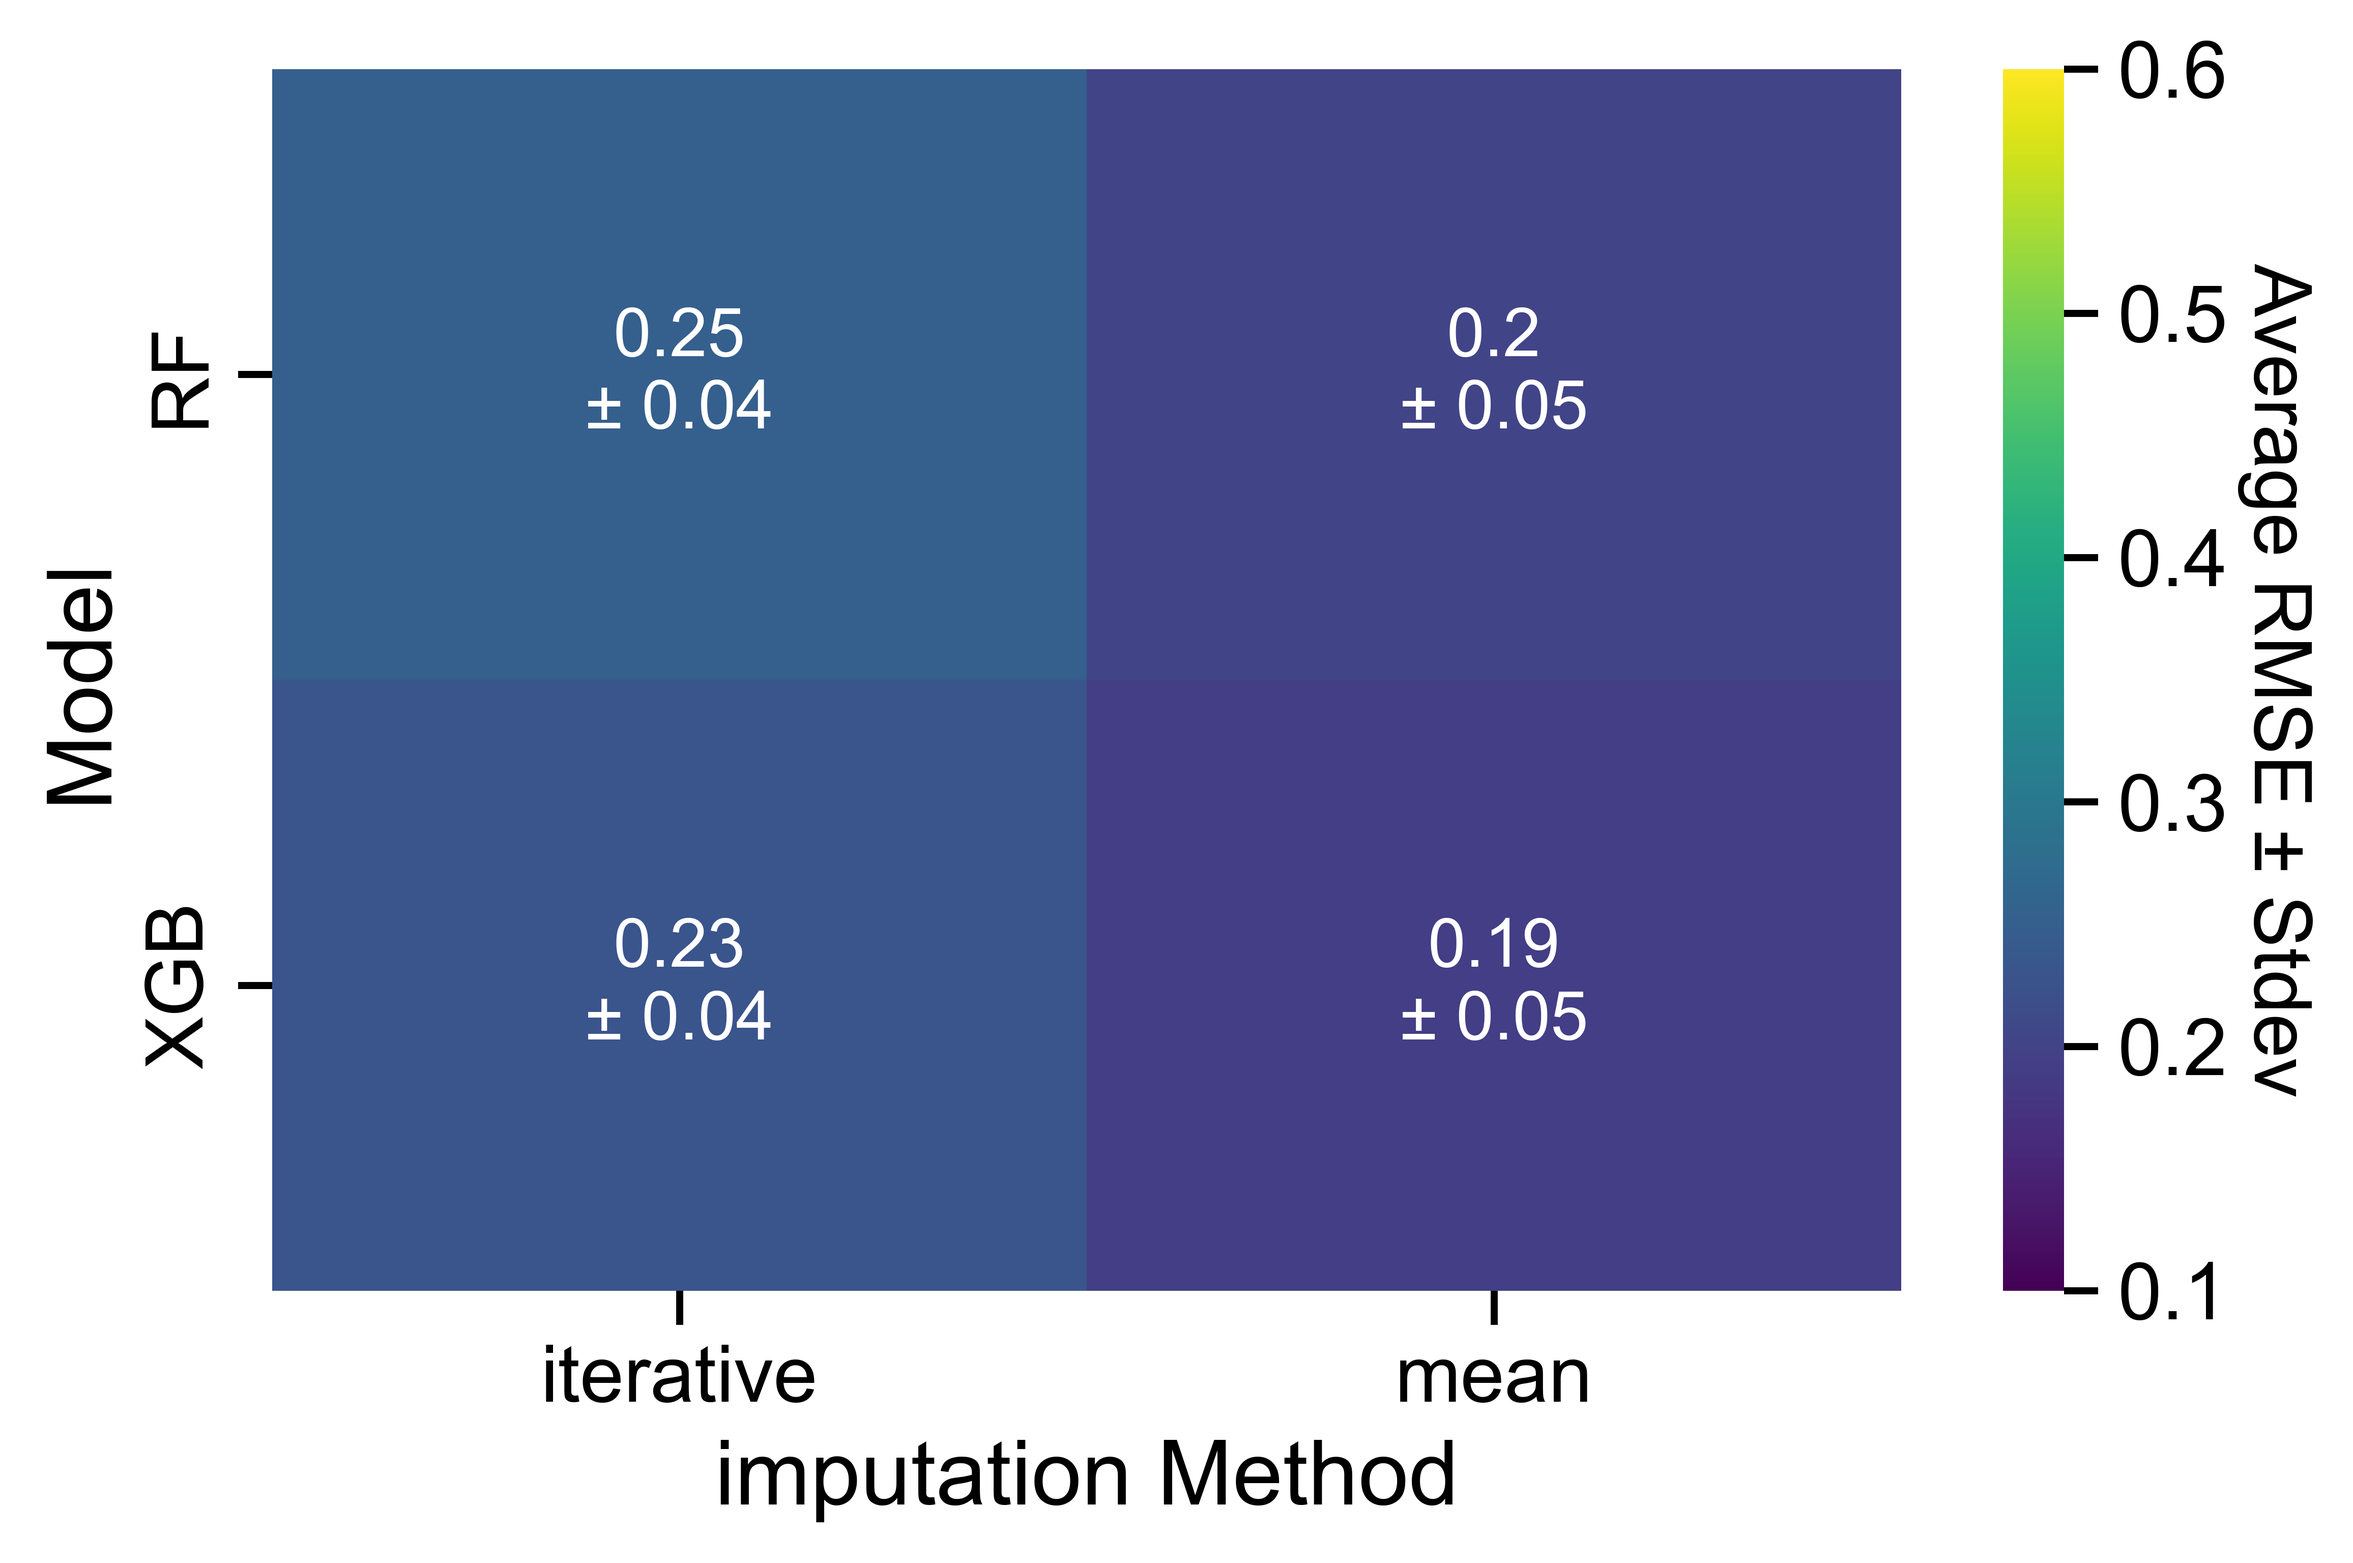
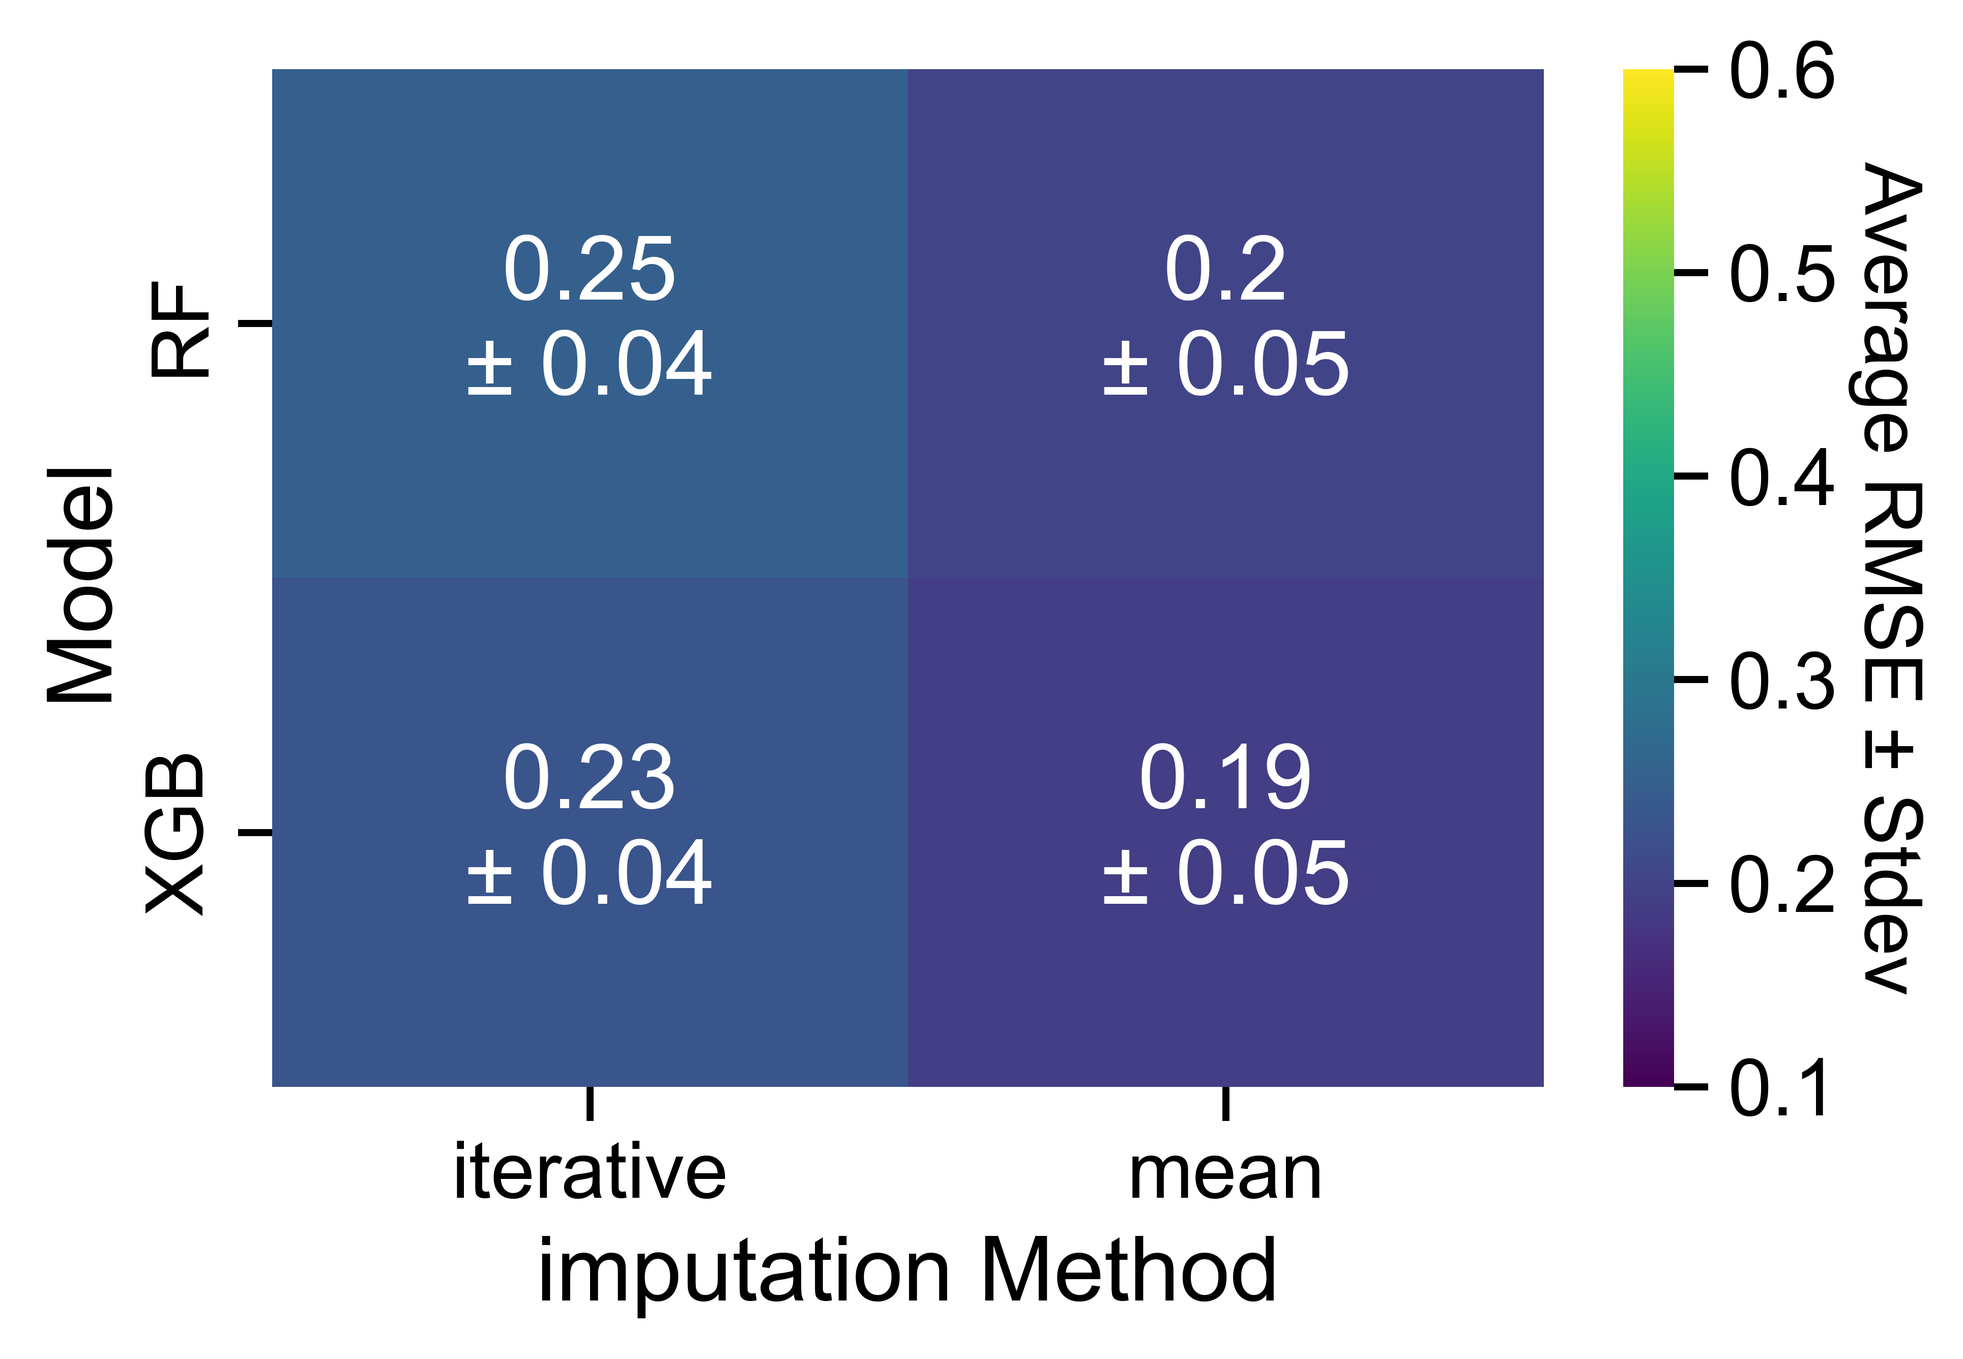
updated scores

diff --git a/code_/visualization/revision_analysis.py b/code_/visualization/revision_analysis.py
@@ -113,12 +113,13 @@ annot = (
 # 3. Plot Heatmap
 # ==========================
 
-plt.figure(figsize=(6, 4))
+plt.figure(figsize=(5, 3.5))
 heatmap = sns.heatmap(
     df_mean,
     annot=annot,
     fmt="",
     cmap="viridis",
+    annot_kws={"size": 16},
     cbar_kws={"label": "Average RMSE ± Stdev"},
     vmax=.6, vmin=.1
 )
